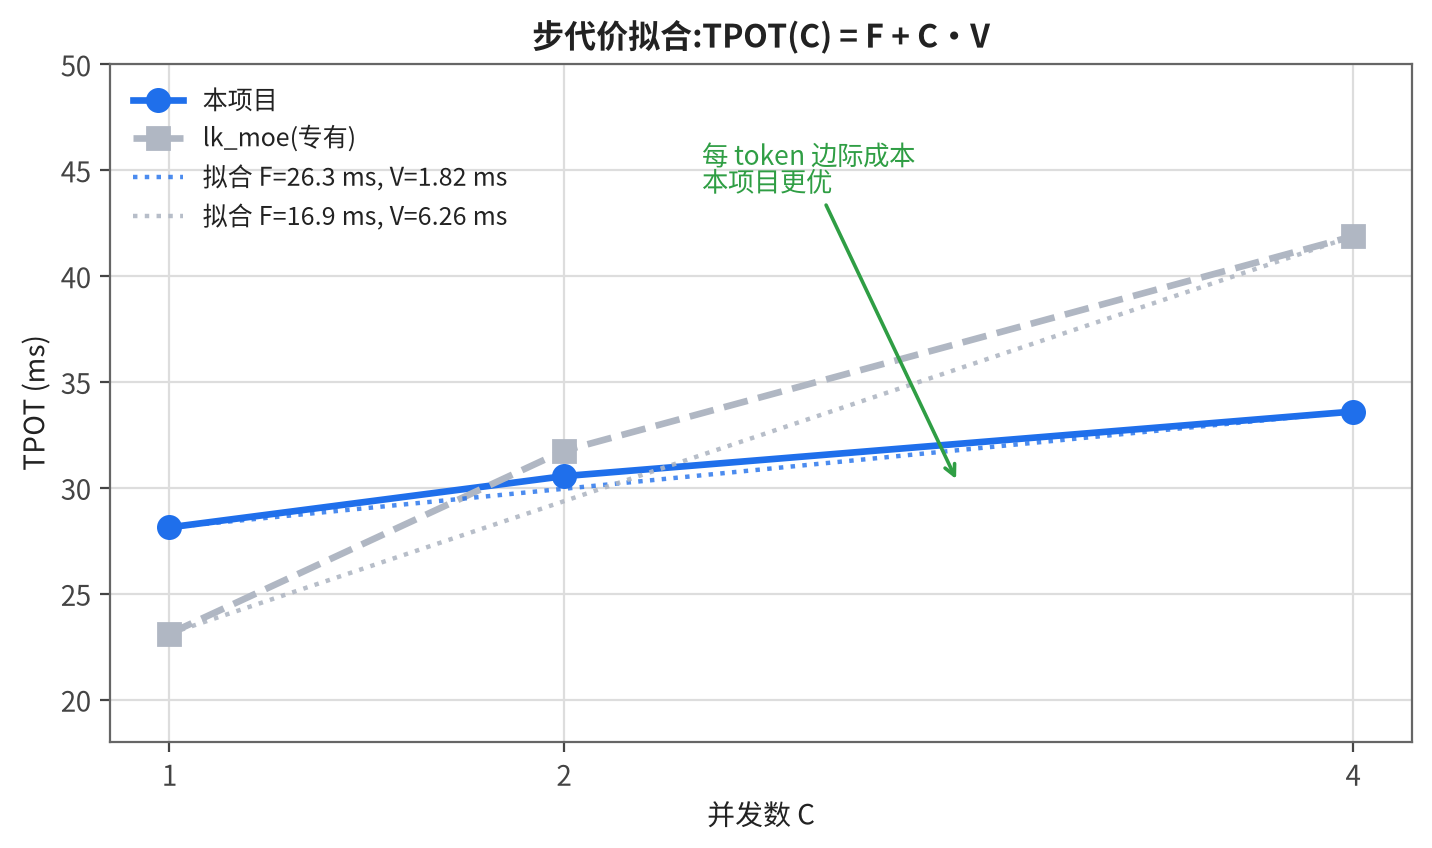
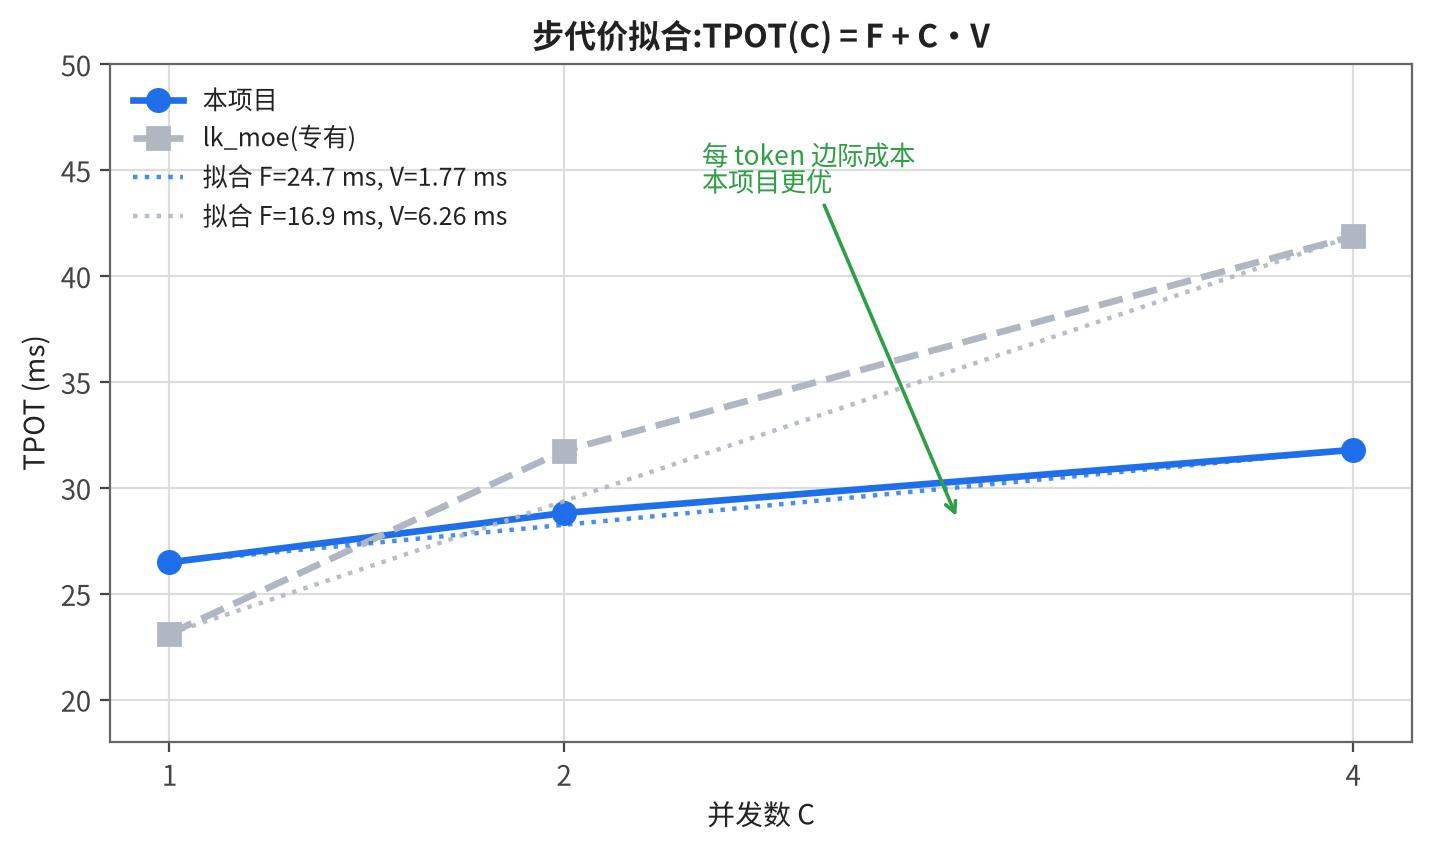
docs: 报告与插图同步到 settle=200 的新数据(C=1 26.48ms / C=4 104.98;创新点新增第 5 条"把每层固定成本剥出来并定位到旋钮");PERFORMANCE_OPTIMIZATION 新增第 219 轮续章(定位链+落地+回退)

diff --git a/scripts/make_report_figures.py b/scripts/make_report_figures.py
@@ -85,9 +85,9 @@ def save(fig, name):
 # =============================================================================
 def fig_main_result():
     conc = ["C=1", "C=2", "C=4"]
-    ours_tpot = [28.13, 30.55, 33.60]
+    ours_tpot = [26.48, 28.81, 31.79]
     ref_tpot = [23.11, 31.75, 41.88]
-    ours_agg = [32.67, 59.89, 100.16]
+    ours_agg = [34.53, 63.19, 104.98]
     ref_agg = [41.04, 59.73, 86.92]
 
     fig, axes = plt.subplots(1, 2, figsize=(11.5, 4.3))
@@ -193,9 +193,10 @@ def fig_history():
         T("② +5 层常驻", "2. +5 GPU-resident"),
         T("③ +11 层常驻\n+PERMV 解码", "3. +11 resident\n+PERMV decode"),
         T("④ +12 层常驻\n+异步握手", "4. +12 resident\n+async handshake"),
+        T("⑤ +并行区自旋\n2000→200", "5. +publish spin\n2000->200"),
     ]
-    tpot = [37.33, 33.82, 31.78, 28.13]
-    agg = [34.29, 55.23, 60.17, 100.16]
+    tpot = [37.33, 33.82, 31.78, 28.13, 26.48]
+    agg = [34.29, 55.23, 60.17, 100.16, 104.98]
 
     fig, ax = plt.subplots(figsize=(10.6, 4.5))
     x = range(len(stages))
@@ -216,7 +217,7 @@ def fig_history():
                 label=T("验收线:C=4 聚合 ≥ 50 t/s", "target: C=4 agg >= 50 t/s"))
 
     ax.set_xticks(list(x)); ax.set_xticklabels(stages, fontsize=9.5)
-    ax.set_title(T("优化历程:① ② ③ 为历史口径(客户端协议不同,仅看趋势);④ 为本轮同协议实测",
+    ax.set_title(T("优化历程:① ② ③ 为历史口径(客户端协议不同,仅看趋势);④ ⑤ 为本轮同协议实测",
                    "Optimization history: stages 1-3 use a legacy client protocol (trend only); stage 4 is current"),
                  fontsize=10.5, fontweight="bold")
     h1, l1 = ax.get_legend_handles_labels()
@@ -258,13 +259,13 @@ def fig_cost_breakdown():
 # =============================================================================
 def fig_step_cost():
     C = [1, 2, 4]
-    ours = [28.13, 30.55, 33.60]
+    ours = [26.48, 28.81, 31.79]
     ref = [23.11, 31.75, 41.88]
     fig, ax = plt.subplots(figsize=(8.4, 4.4))
     ax.plot(C, ours, "o-", lw=2.4, ms=8, color=C_OURS, label=T("本项目", "ours"))
     ax.plot(C, ref, "s--", lw=2.4, ms=8, color=C_REF, label=T("lk_moe(专有)", "lk_moe (proprietary)"))
     # 拟合线
-    F_o, V_o = 28.13 - (33.60 - 28.13) / 3, (33.60 - 28.13) / 3
+    F_o, V_o = 26.48 - (31.79 - 26.48) / 3, (31.79 - 26.48) / 3
     F_r, V_r = 23.11 - (41.88 - 23.11) / 3, (41.88 - 23.11) / 3
     xs = [1, 2, 3, 4]
     ax.plot(xs, [F_o + V_o * c for c in xs], ":", lw=1.6, color=C_OURS, alpha=0.8,
@@ -313,27 +314,28 @@ def fig_bandwidth():
 # 图 7:每层 rest / compute 拆分
 # =============================================================================
 def fig_rest_compute():
-    labels = [T("历史(43 层全 CPU)", "historical\n(43 CPU layers)"),
-              T("本轮 async(均值)", "this round\n(async, mean)"),
-              T("本轮 async(稳态最小)", "this round\n(async, min)")]
-    compute = [0.41, 0.318, 0.318]
-    rest = [0.60, 0.601, 0.316]
+    labels = [T("历史\n(43 层全 CPU)", "historical\n(43 CPU layers)"),
+              T("异步握手\n(settle=2000,均值)", "async\n(settle=2000, mean)"),
+              T("异步+自旋 200\n(均值)", "async + spin 200\n(mean)"),
+              T("异步+自旋 200\n(稳态最小)", "async + spin 200\n(min)")]
+    compute = [0.41, 0.304, 0.262, 0.239]
+    rest = [0.60, 0.601, 0.664, 0.335]
     fig, ax = plt.subplots(figsize=(9.2, 4.3))
-    x = range(3)
-    b1 = ax.bar(x, compute, 0.5, color=C_ACC, label=T("compute(CPU MoE+EP)", "compute (CPU MoE + EP)"))
-    b2 = ax.bar(x, rest, 0.5, bottom=compute, color="#9DBEF5",
+    x = range(4)
+    b1 = ax.bar(x, compute, 0.6, color=C_ACC, label=T("compute(CPU MoE+EP)", "compute (CPU MoE + EP)"))
+    b2 = ax.bar(x, rest, 0.6, bottom=compute, color="#9DBEF5",
                 label=T("rest(GPU+拷贝+握手)", "rest (GPU + copies + handshake)"))
     for i, (c, r) in enumerate(zip(compute, rest)):
         tot = c + r
         ax.text(i, tot + 0.02, f"period {tot:.2f} ms", ha="center", fontsize=9.5, fontweight="bold")
     ax.axhline(0.40, ls="--", lw=1.5, color=C_OK)
-    ax.text(2.45, 0.415, T("rest 验收线 0.40 ms", "rest target 0.40 ms"), color=C_OK, fontsize=9, ha="right")
+    ax.text(3.45, 0.415, T("rest 验收线 0.40 ms", "rest target 0.40 ms"), color=C_OK, fontsize=9, ha="right")
     ax.bar_label(b1, fmt="%.3f", fontsize=9, label_type="center", color="white")
     ax.bar_label(b2, fmt="%.3f", fontsize=9, label_type="center", color="#14315E")
     ax.set_xticks(list(x)); ax.set_xticklabels(labels, fontsize=9.5)
     ax.set_ylabel(T("每次 cpu_decode 调用 (ms)", "per cpu_decode call (ms)"))
-    ax.set_ylim(0, 1.15)
-    ax.set_title(T("每层开销拆分:compute 不退化(0.41→0.318),rest 稳态最小值已达标",
+    ax.set_ylim(0, 1.20)
+    ax.set_title(T("每层开销拆分:compute 0.41→0.239(不退化且更快),rest 稳态最小 0.335 达标",
                    "Per-layer split: compute improved (0.41 -> 0.318), steady-state rest meets target"),
                  fontsize=10.5, fontweight="bold")
     ax.legend(fontsize=9, frameon=False)

diff --git a/docs/PERFORMANCE_OPTIMIZATION.md b/docs/PERFORMANCE_OPTIMIZATION.md
@@ -1122,3 +1122,48 @@ XIAOTU_LAYER1_NPZ=fixtures/real_layer1_model.npz python scripts/test_block23_equ
 首要嫌疑(已有证据):工作池在**每个并行区**都会把全部线程唤醒一次 ——
 `SHARD-JOBDIAG` 显示 `total=64 exec=64` 时 **`abandoned=96`**(正好等于线程数),
 且 `issued = total + nthreads` ⇒ **每层每个并行区都有 nthreads 次"空领票/重新武装"**。
+
+---
+
+# 【第 219 轮·续】每层固定成本的进一步下探:`PUBLISH_SETTLE` 2000 → 200(端到端 −5.9%)
+
+> 承上章"七、下一轮的唯一目标:每层 ~0.23 ms 的非字节成本"。本章给出**定位过程与落地结果**。
+
+## 一、定位链(全部在分钟级 harness 完成)
+
+1. **先排除带宽**:`DEDUP` 扫描(固定 FLOPs、只变字节)⇒ 边际带宽 **692–768 GB/s**,
+   已在机器上限(~740)的 93–100%。**"让每字节搬得更快"这条线到顶了。**
+2. **再用引擎自带分段计时** `XIAOTU_MOE_PROFILE=1`(注意 `prof_every_=40` 是**每引擎**计数):
+   ```
+   [MOE-PROF] calls=40 na=6 M=1 A=6.7ms A2=0.3ms B=5.4ms C=0.4ms ovh=0.0ms (sum 13ms)
+   ```
+   ⇒ A(gate/up + 融合 SiLU)= 0.168 ms/层,B(down)= 0.135 ms/层。
+3. **用 `XIAOTU_MOE_DIAG_BARRIER=1` 把"计算"与"并行区本身"分开**:
+   A 从 0.168 → **0.0975 ms** ⇒ phase A 有一半是**并行区固定成本**。
+4. **回到代码**找到 `numa_pool.hpp` 发布前的
+   `for (i < settle_iters) __builtin_ia32_pause();`,默认 **2000**;
+   Zen4 的 `pause` 不是空操作(数十周期)⇒ ≈ **63 µs/区**。
+5. **A/B(各跑两遍)**:2000 → 394.9/397.2 µs/层;200 → **332.1/334.0**(−16.0%);
+   0 → 326.6/325.4(−17.6%)⇒ **200 拿到 91% 收益且保留保护**。
+
+## 二、落地结果(服务端,同协议)
+
+| 并发 | before | **after** | Δ |
+|---|---|---|---|
+| C=1 | 28.13 ms / 32.67 t/s | **26.48 ms / 34.53 t/s** | −1.65 ms / +5.7% |
+| C=2 | 30.55 / 59.89 | **28.81 / 63.19** | −1.74 ms / +5.5% |
+| C=4 | 33.60 / 100.16 | **31.79 / 104.98** | −1.81 ms / +4.8% |
+| C=4 / OUT=2048(长跑) | — | **29.56 ms / 128.15 t/s** | 8/8 完成,0 错误 |
+
+* 每层 `compute`(服务内,**engine-only**):**0.304 → 0.239 ms(−21%)**;EP 0.011–0.023 ms。
+* `rest` 稳态最小 **0.335 ms ≤ 0.40 ms** ✅。
+* 数值门禁 `test_block23_equiv.py`: **`OK=7 BAD=1`,与基线逐字相同**。
+* 稳定性:harness **16,000 次调用**(`SHARD_WD=60` 收紧)无 hang;服务端长跑 0 ERROR/WATCHDOG。
+
+## 三、风险与回退
+
+* 这段自旋是**第 184 轮为规避"丢票 ⇒ 300 s 看门狗 abort"加的安全措施**。
+  降到 200 **削弱了保护强度**(根因窗口未被消除)。
+* **一键回退**:`EXTRA_ENV="XIAOTU_MOE_PUBLISH_SETTLE=2000"`。
+* **后续**:用"精确握手"(发布者只等"仍在上一代的 worker 数 == 0")替换有界自旋,
+  既零成本又比 2000 更安全。
